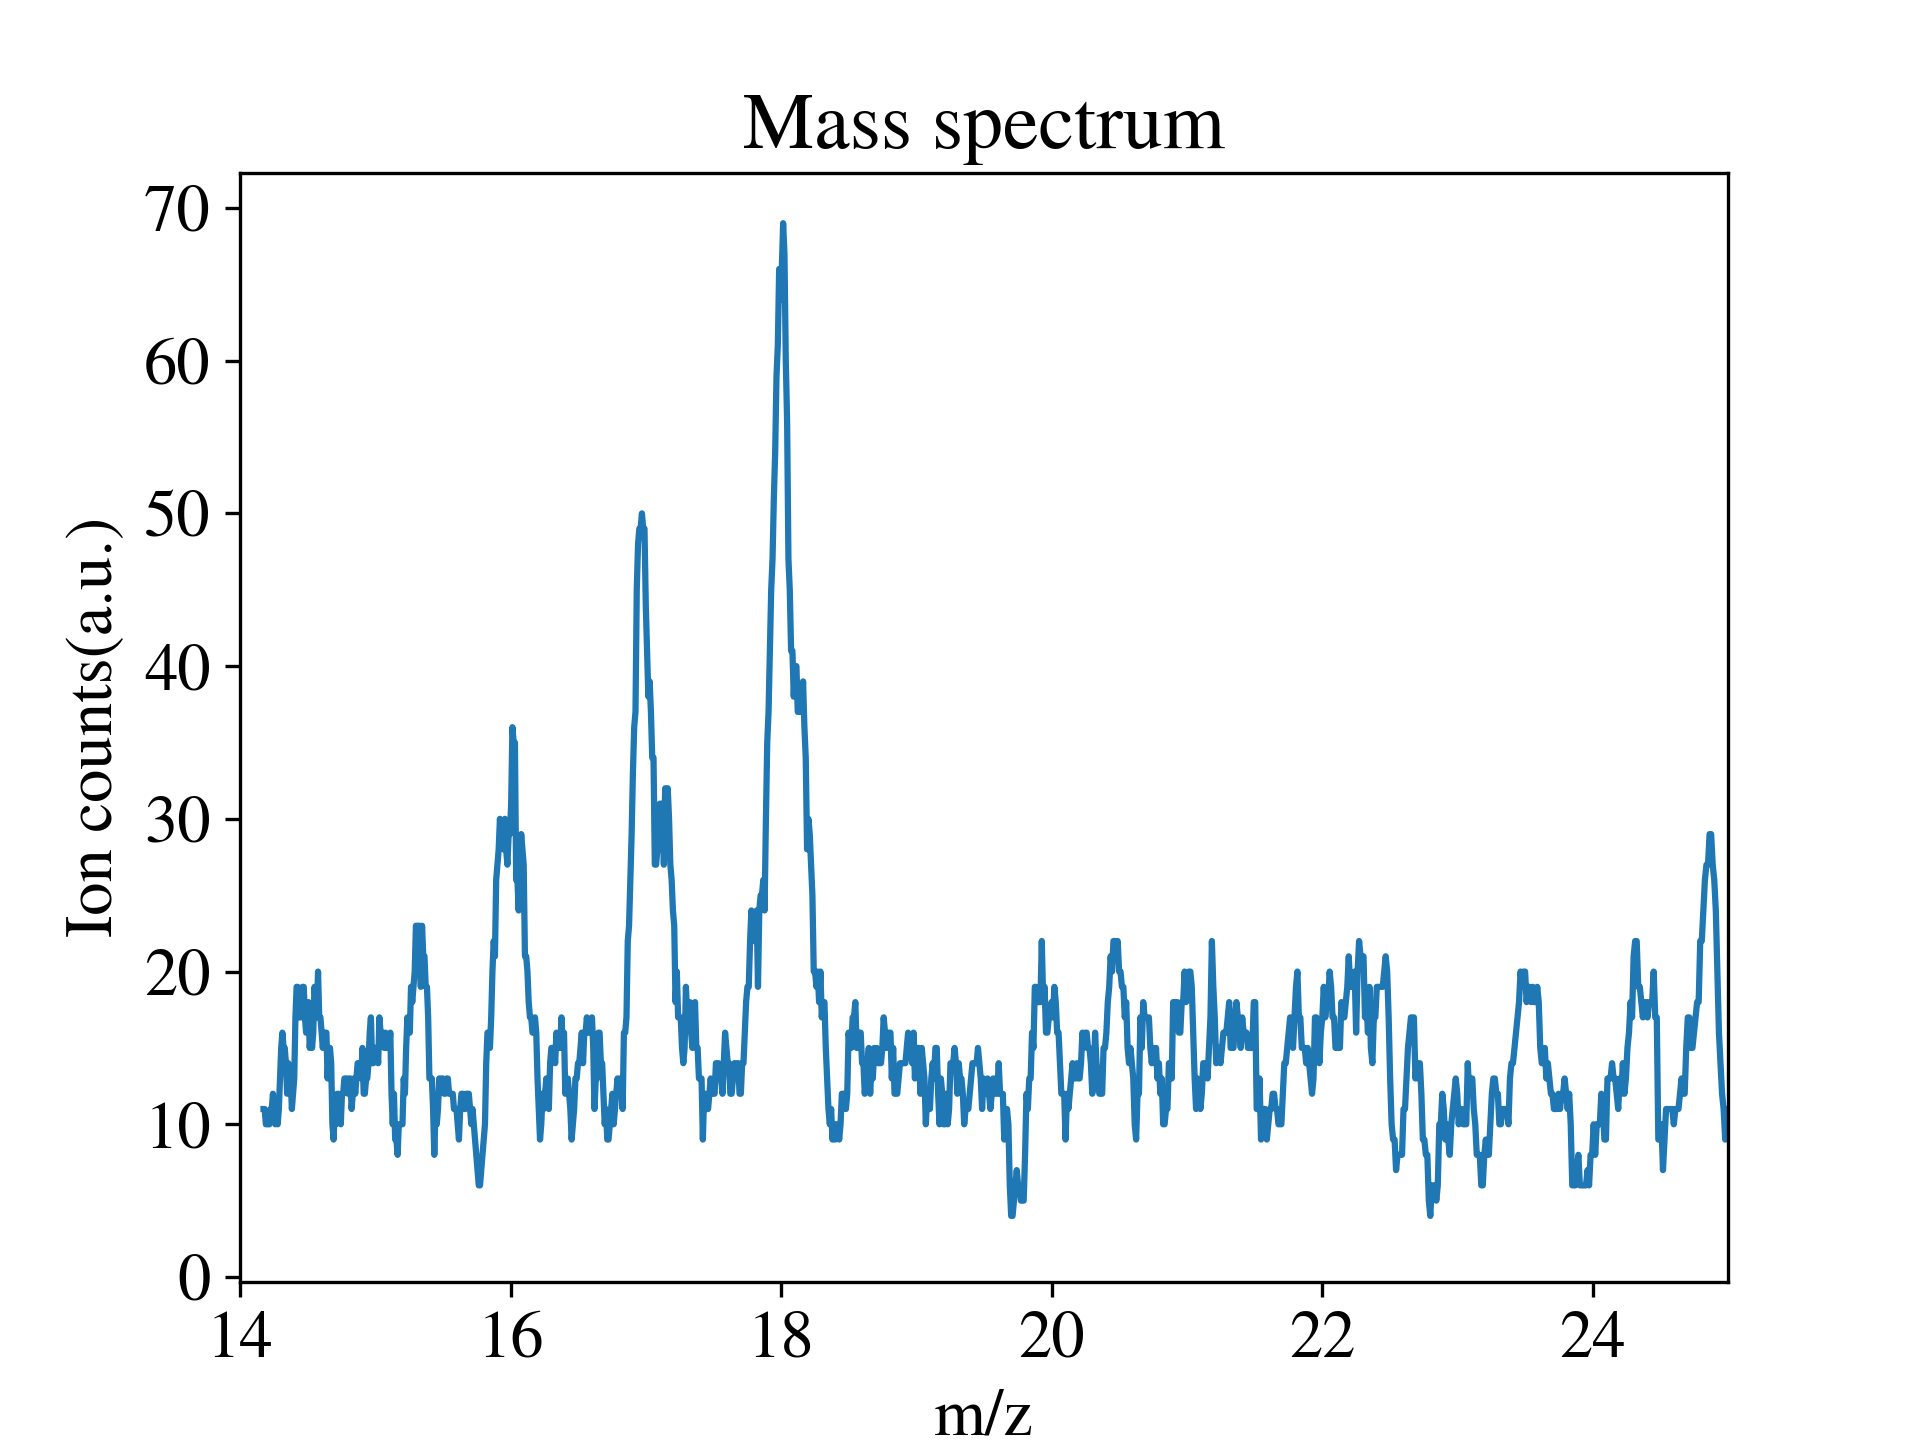
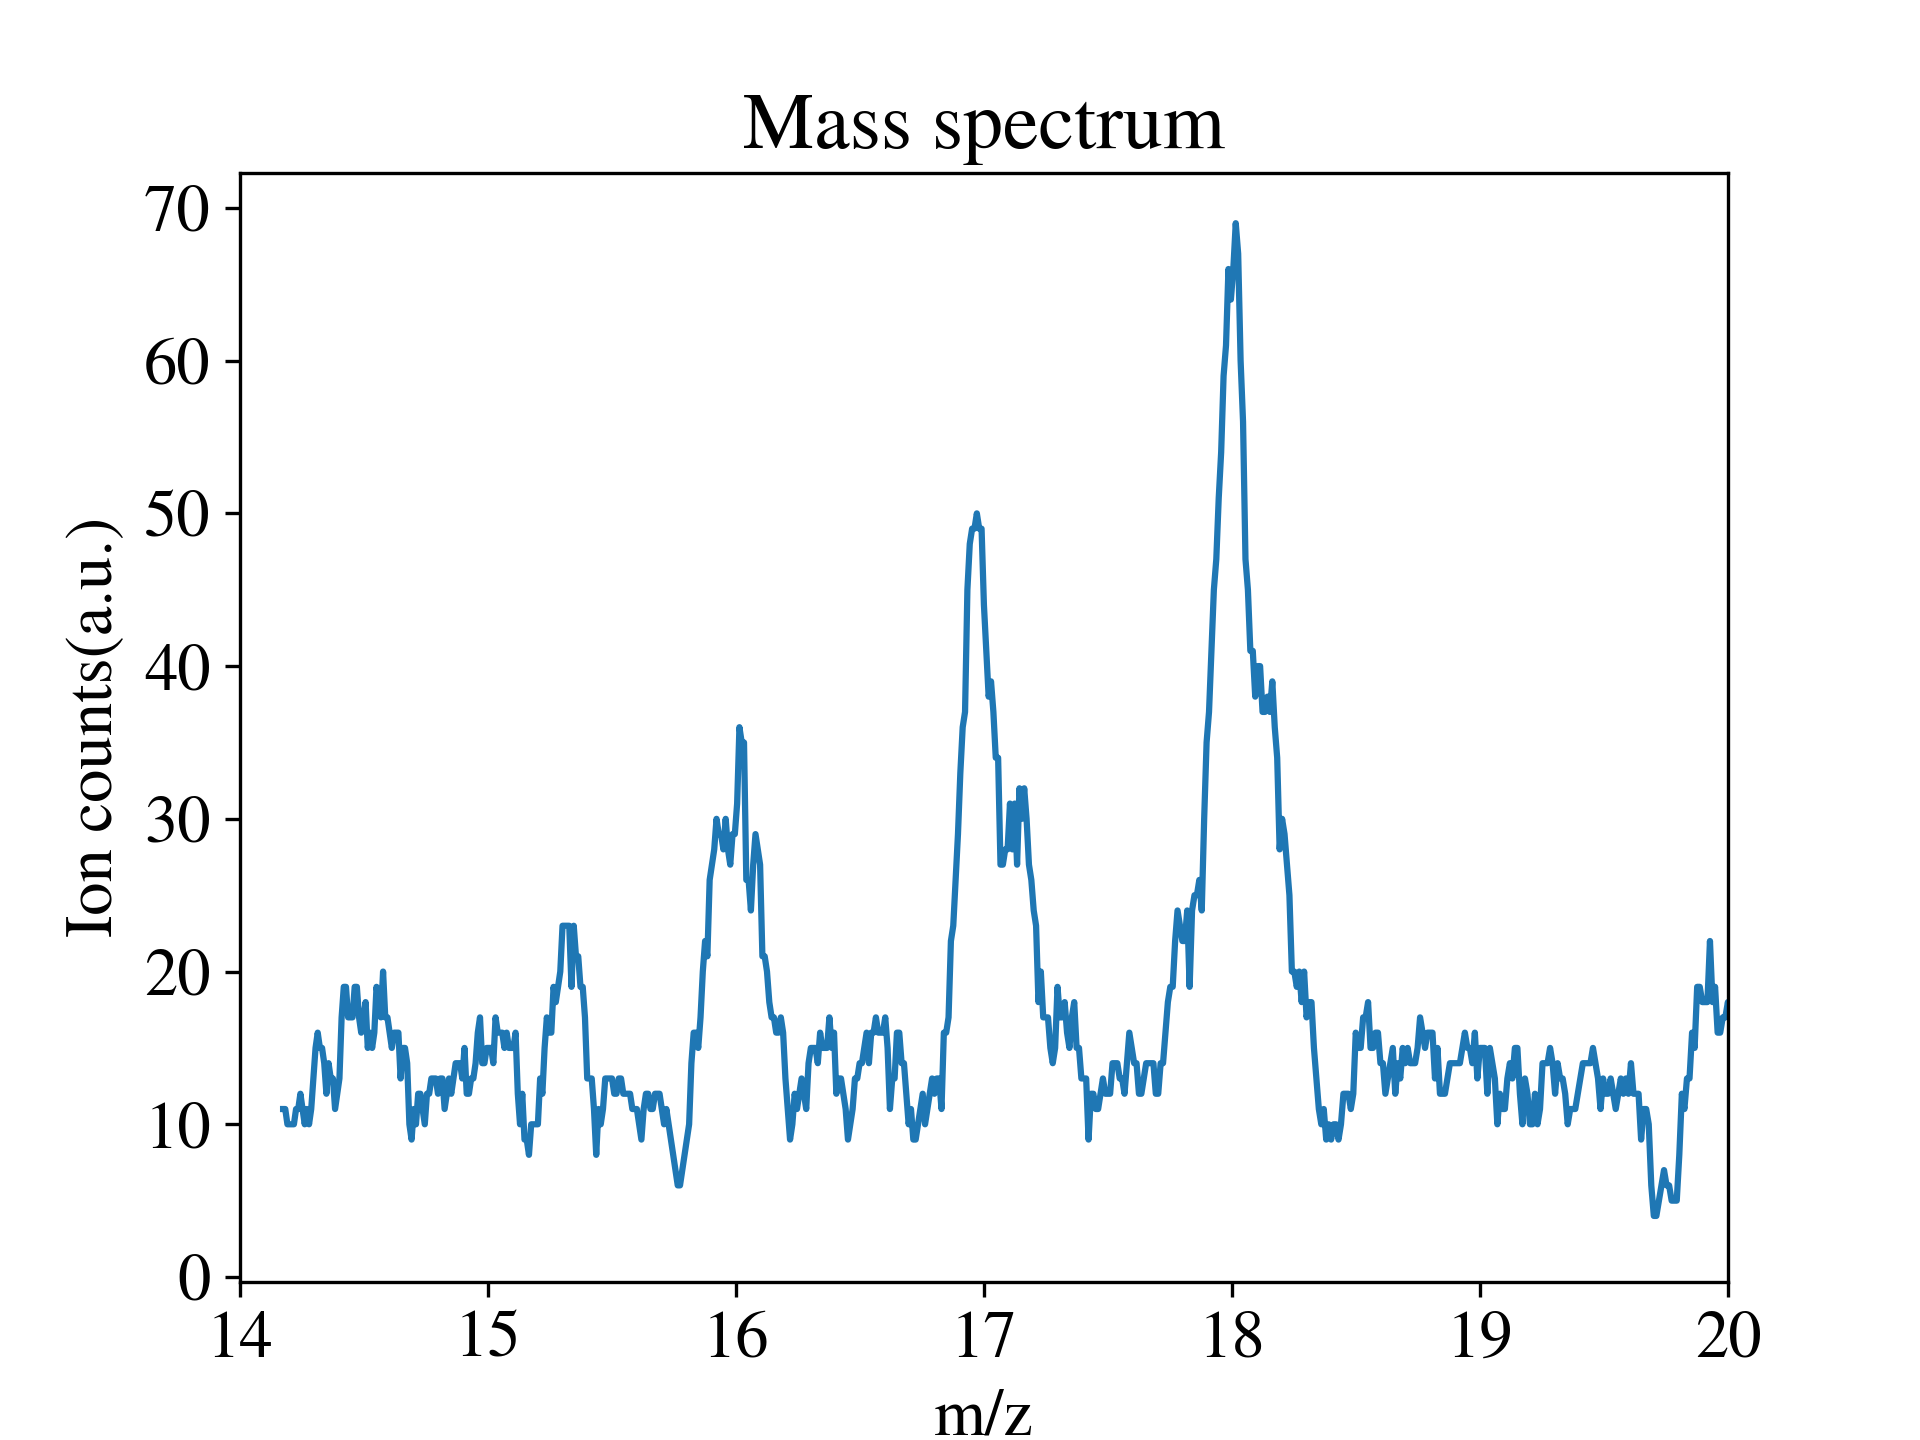
fix bug on variable tampered due to mutable data structure, next time needs to make variable copy before processing.

diff --git a/numpy/spectrum.py b/numpy/spectrum.py
@@ -3,17 +3,25 @@ from figure_plot import plot2D
 import matplotlib.pyplot as plt
 
 def main():
-    data = new_file('rempi.txt')
-    peakvalue = peak_find(data)
-    plot2D(data, peakvalue, plottype = 'REMPI')
+    rawdata1 = 'rempi.txt'
+    rawdata2 = 'collisionbg3(20022026)(1).txt'
+
+
+
+    rempidata = new_file(rawdata1)
+    rempipeak = peak_find(rempidata)
+    plot2D(rempidata, rempipeak, plottype = 'REMPI')
     plt.savefig('myplot.png', dpi = 300)
 
 
-    massdata = new_file('collisionbg3(20022026)(1).txt')
-    newmass = mass_convert(massdata,[16,17,18])
-    plot2D(newmass,plottype = 'ms', xlim = [14, 25])
+    massdata = new_file(rawdata2)
+
+    newmass = mass_convert(massdata.copy(),[16,17,18])
+    plot2D(newmass,plottype = 'ms', xlim = [14, 20])
     plt.savefig('massplot.png',dpi = 300)
+ 
 
-
+    plot2D(massdata, plottype = 'flighttime')
+    plt.savefig('flighttime.png', dpi = 300)
 if __name__ == '__main__':
     main()

diff --git a/numpy/peak.py b/numpy/peak.py
@@ -19,7 +19,7 @@ def new_file(name,headercheck = 0):
         sys.exit('file format not correct')
     for col in data.columns:
         if data[col].dtype == np.object_:
-            data[col] = data[col].str.replace(',','.').str.strip().astype(float)
+            data[col] = data[col].str.replace(',','.').astype(np.float64)
         elif data[col].dtype == np.float64:
             continue
     return data.to_numpy()

diff --git a/numpy/figure_plot.py b/numpy/figure_plot.py
@@ -16,7 +16,7 @@ def plot2D(data,data2 = None, plottype = 'default', xlim = None, ylim = None):
         plt.ylim(ylim)
     if plottype.lower() == 'flighttime':
         plt.plot(data[:,0]*1000,data[:,1])
-        plt.xlabel('Flight time (ms)')
+        plt.xlabel('Flight time ($\mu$s)')
         plt.ylabel('Ion counts(a.u.)')
         plt.title('Flight time spectrum')   
     else:
